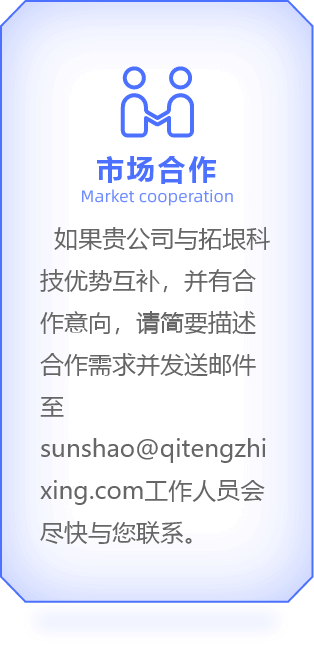
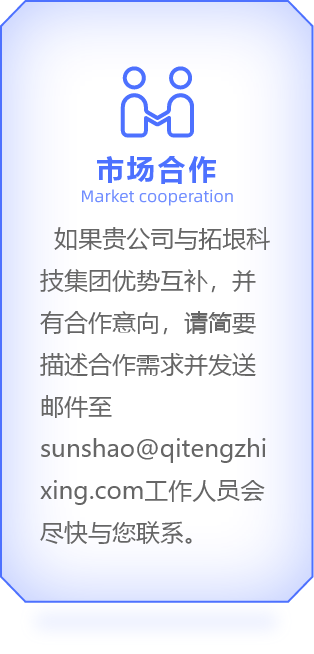
feat: add

Changed region(s): [[0.1146, 0.3976, 0.8312, 0.6422]]

diff --git a/src/views/About.vue b/src/views/About.vue
@@ -19,7 +19,7 @@
                     <div class="col-t"><img class="gs" src="@/assets/about-5-1.png" alt="" srcset="" /></div>
                     <div class="col-b">
                       公司团队依托云计算、大数据、人工智能、移动互联网等信息技术，以企业拥有的知识产权为切入点，构建企业全新生态，提供一站式解决方案。该系统内置了近百个知识产权风险检测指标和风控模型，综合分析企业的知识产权相关指标，通过线上平台直接生成企业知识产权综合评估报告。<br />
-                      拓垠科技作为第三方技术服务商，致力于帮助银行、征信机构、 保理机构
+                      拓垠科技集团作为第三方技术服务商，致力于帮助银行、征信机构、 保理机构
                       、科技公司、企服公司、行业协会、知识产权公司等客户整合数据、增强核心竞争力，助力知识产权数字化升级。我司风险检测系统已为银行、企服公司等300多家客户提供了安全、便捷、高效、全面的数字化风控服务。
                     </div>
                   </div>
@@ -29,78 +29,12 @@
           </div>
         </swiper-slide>
         <swiper-slide>
-          <div class="step2" v-if="swiperIndex === 1">
-            <div class="container">
-              <img class="qywh animate__animated animate__fadeInDown" src="@/assets/about-7-1.png" alt="" />
-              <div class="more-server animate__animated animate__fadeInDown animate__delay-1-1">
-                <div class="item">
-                  <img src="@/assets/about-i1.png" alt="" />
-                  <b>企业使命</b>
-                  <p>助成渝地区万千<br />企业高质量发展</p>
-                </div>
-                <div class="item">
-                  <img src="@/assets/about-i2.png" alt="" />
-                  <b>经营理念</b>
-                  <p>成就客户的心永不变<br />成就员工的心永不变</p>
-                </div>
-                <div class="item">
-                  <img src="@/assets/about-i3.png" alt="" />
-                  <b>企业价值观</b>
-                  <p>诚信为本、效率优先<br />专业至上、合作共赢</p>
-                </div>
-                <div class="item">
-                  <img src="@/assets/about-i4.png" alt="" />
-                  <b>企业愿景</b>
-                  <p>用科技技术服务<br />助企业降低成本</p>
-                </div>
-              </div>
-              <img class="yzs animate__animated animate__fadeInDown animate__delay-2-1" src="@/assets/about-8.png" alt="" />
-              <div class="one-server animate__animated animate__fadeInDown animate__delay-3">
-                <div class="servers">
-                  <div class="item">
-                    <div class="front">
-                      <img src="@/assets/about-9.png" alt="" />
-                    </div>
-                    <div class="backend">
-                      <img src="@/assets/about-20.png" alt="" />
-                    </div>
-                  </div>
-                  <div class="item">
-                    <div class="front">
-                      <img src="@/assets/about-10.png" alt="" />
-                    </div>
-                    <div class="backend">
-                      <img src="@/assets/about-21.png" alt="" />
-                    </div>
-                  </div>
-                  <div class="item">
-                    <div class="front">
-                      <img src="@/assets/about-11.png" alt="" />
-                    </div>
-                    <div class="backend">
-                      <img src="@/assets/about-22.png" alt="" />
-                    </div>
-                  </div>
-                  <div class="item">
-                    <div class="front">
-                      <img src="@/assets/about-12.png" alt="" />
-                    </div>
-                    <div class="backend">
-                      <img src="@/assets/about-23.png" alt="" />
-                    </div>
-                  </div>
-                </div>
-              </div>
-            </div>
-          </div>
-        </swiper-slide>
-        <swiper-slide>
-          <div class="step3" v-if="swiperIndex === 2">
+          <div class="step3" v-if="swiperIndex === 1">
             <div class="container">
               <div class="ry-box">
                 <img class="ry-title animate__animated animate__fadeInDown" src="@/assets/about-13.png" alt="" />
                 <div class="sw">
-                  <swiper :modules="[Mousewheel, Pagination, Navigation, Autoplay]" :navigation="true" :pagination="true" :autoplay="true">
+                  <swiper :modules="[Mousewheel, Pagination, Navigation, Autoplay]" :loop="true" :navigation="true" :pagination="true" :autoplay="true">
                     <swiper-slide class="ry-item">
                       <div class="ry-h">
                         <img src="@/assets/about-14.png" class="ry-img" />
@@ -134,35 +68,11 @@
     <template v-else>
       <div class="step2">
         <img class="img-title animate__animated animate__fadeInDown" src="@/assets/about-2.png" alt="" srcset="" />
-        <div class="container">
-          <div class="more-server animate__animated animate__fadeInDown animate__delay-1-1">
-            <div class="item">
-              <img src="@/assets/about-i1.png" alt="" />
-              <b>企业使命</b>
-              <p>助成渝地区万千企业高质量发展</p>
-            </div>
-            <div class="item">
-              <img src="@/assets/about-i2.png" alt="" />
-              <b>经营理念</b>
-              <p>成就客户的心永不变成就员工的心永不变</p>
-            </div>
-            <div class="item">
-              <img src="@/assets/about-i3.png" alt="" />
-              <b>企业价值观</b>
-              <p>诚信为本、效率优先专业至上、合作共赢</p>
-            </div>
-            <div class="item">
-              <img src="@/assets/about-i4.png" alt="" />
-              <b>企业愿景</b>
-              <p>用科技技术服务助企业降低成本</p>
-            </div>
-          </div>
-        </div>
       </div>
       <div class="step1">
         <div class="container">
-          <img class="jiesao-title animate__animated animate__fadeInDown animate__delay-2" src="@/assets/about-4.png" alt="" srcset="" />
-          <div class="jiesao animate__animated animate__fadeInDown animate__delay-2-4">
+          <img class="jiesao-title animate__animated animate__fadeInDown animate__delay-1" src="@/assets/about-4.png" alt="" srcset="" />
+          <div class="jiesao animate__animated animate__fadeInDown animate__delay-1-4">
             <div class="box">
               <div class="col-r">
                 <div class="col-b">
@@ -176,24 +86,8 @@
           </div>
         </div>
       </div>
-      <div class="yzs-s">
-        <img class="yzs animate__animated animate__fadeInDown animate__delay-2-1" src="@/assets/yzsfw.png" alt="" />
-        <div class="one-server animate__animated animate__fadeInDown animate__delay-3">
-          <div class="servers">
-            <div class="item">
-              <img src="@/assets/yzs1.png" alt="" />
-            </div>
-            <div class="item">
-              <img src="@/assets/yzs2.png" alt="" />
-            </div>
-            <div class="item">
-              <img src="@/assets/yzs3.png" alt="" />
-            </div>
-            <div class="item">
-              <img src="@/assets/yzs4.png" alt="" />
-            </div>
-          </div>
-        </div>
+      <div class="step3">
+        <img src="@/assets/rongyu.png" alt="" />
       </div>
       <user-footer style="position: initial !important" />
     </template>
@@ -201,7 +95,7 @@
 </template>
 <script setup>
 import UserFooter from "@/components/Footer.vue";
-import { ref, inject } from "vue";
+import { ref, inject, onMounted } from "vue";
 import { Mousewheel, Pagination, Navigation, Autoplay } from "swiper";
 import { Swiper, SwiperSlide } from "swiper/vue";
 import "swiper/css";
@@ -222,12 +116,18 @@ const load = (e) => {
 
 const onSlideChange = () => {
   swiperIndex.value = swiperDom.value?.activeIndex;
-  if (swiperIndex.value === 2) {
+  if (swiperIndex.value === 1) {
     headerActive.value = true;
   } else {
     headerActive.value = false;
   }
 };
+
+onMounted(() => {
+  if (width < 1200) {
+    headerActive.value = false;
+  }
+});
 </script>
 
 <style lang="scss" scoped>

diff --git a/src/views/Partner.vue b/src/views/Partner.vue
@@ -9,7 +9,17 @@
               <div class="server">
                 <img class="bg" src="@/assets/par-3.png" alt="" />
                 <img class="s-title animate__animated animate__fadeInDown animate__delay-1s" src="@/assets/par-4.png" alt="" srcset="" />
-                <img class="s-more" src="@/assets/par-5.png" alt="" srcset="" />
+                <div class="fuwu-box">
+                  <div class="box">
+                    <img class="yuan animate__animated animate__zoomIn animate__delay-1-1" src="@/assets/fuwu-yuan.png" alt="" />
+                    <img class="fuwu fuwu1 animate__animated animate__fadeInDown animate__delay-1-4" src="@/assets/fuwu1.png" alt="" srcset="" />
+                    <img class="fuwu fuwu2 animate__animated animate__fadeInDown animate__delay-1-5" src="@/assets/fuwu2.png" alt="" srcset="" />
+                    <img class="fuwu fuwu3 animate__animated animate__fadeInDown animate__delay-1-6" src="@/assets/fuwu3.png" alt="" srcset="" />
+                    <img class="fuwu fuwu4 animate__animated animate__fadeInDown animate__delay-1-1" src="@/assets/fuwu6.png" alt="" srcset="" />
+                    <img class="fuwu fuwu5 animate__animated animate__fadeInDown animate__delay-1-2" src="@/assets/fuwu5.png" alt="" srcset="" />
+                    <img class="fuwu fuwu6 animate__animated animate__fadeInDown animate__delay-1-3" src="@/assets/fuwu4.png" alt="" srcset="" />
+                  </div>
+                </div>
               </div>
             </div>
           </div>
@@ -108,6 +118,52 @@ const onSlideChange = () => {
     background: url("@/assets/par-1.png") no-repeat center top;
     background-size: auto 400px;
     height: 100%;
+    .fuwu-box {
+      width: 314px;
+      height: 314px;
+      position: absolute;
+      top: 35%;
+      left: 50%;
+      transform: translateX(-50%);
+      .box {
+        position: relative;
+        width: 100%;
+        height: 100%;
+        .yuan {
+          width: 100%;
+          height: 100%;
+        }
+        .fuwu {
+          position: absolute;
+          width: 311px;
+          height: 42px;
+          &.fuwu1 {
+            left: -286px;
+            top: 5px;
+          }
+          &.fuwu2 {
+            left: -334px;
+            top: 117px;
+          }
+          &.fuwu3 {
+            left: -292px;
+            top: 230px;
+          }
+          &.fuwu4 {
+            right: -283px;
+            top: 5px;
+          }
+          &.fuwu5 {
+            right: -334px;
+            top: 117px;
+          }
+          &.fuwu6 {
+            right: -283px;
+            top: 230px;
+          }
+        }
+      }
+    }
   }
   .container {
     max-width: 1250px;

diff --git a/src/components/Footer.vue b/src/components/Footer.vue
@@ -8,7 +8,7 @@
         <div class="top">
           <ul>
             <li v-for="(item, index) in links" :key="index">
-              <a>{{ item.text }}</a>
+              <a @click="$router.push(item.link)">{{ item.text }}</a>
             </li>
           </ul>
         </div>
@@ -30,23 +30,23 @@ const links = ref([
   },
   {
     text: "解决方案",
-    link: "/",
+    link: "/plan",
   },
   {
     text: "企业服务",
-    link: "/",
+    link: "/servers",
   },
   {
     text: "战略伙伴",
-    link: "/",
+    link: "/partner",
   },
   {
     text: "关于我们",
-    link: "/",
+    link: "/about",
   },
   {
     text: "联系我们",
-    link: "/",
+    link: "/call",
   },
 ]);
 </script>
@@ -65,8 +65,8 @@ const links = ref([
     align-items: center;
     height: 100%;
     .col-l {
-      width: 200px;
-      height: 60px;
+      width: 210px;
+      height: 70px;
       img {
         width: 100%;
       }

diff --git a/src/views/CallUs.vue b/src/views/CallUs.vue
@@ -41,10 +41,10 @@
       <div v-else class="more-m-card">
         <div class="col-t">
           <div>
-            <img src="@/assets/c1-1.png" alt="" />
+            <img src="@/assets/c1-2.png" alt="" />
           </div>
           <div>
-            <img src="@/assets/c1-2.png" alt="" />
+            <img src="@/assets/c1-1.png" alt="" />
           </div>
         </div>
         <div class="col-b">
@@ -54,7 +54,7 @@
     </div>
     <b-map v-if="showMap" @close="toggle" />
   </div>
-  <user-footer style="position: initial !important" />
+  <user-footer style="position: initial !important" v-if="width < 1200" />
 </template>
 <script setup>
 import BMap from "@/components/Map.vue";

diff --git a/src/css/media.scss b/src/css/media.scss
@@ -443,7 +443,8 @@
     .img-title {
       width: 130px;
       display: block;
-      margin: 20px auto 14px auto;
+      margin: 20px auto 0px auto;
+      padding-bottom: 15px;
     }
     .step1 {
       background: none !important;
@@ -500,6 +501,15 @@
             font-size: 12px !important;
           }
         }
+      }
+    }
+    .step3 {
+      width: 90% !important;
+      margin: 0 auto 30px auto;
+      height: initial !important;
+      img {
+        width: 100%;
+        display: block;
       }
     }
     .yzs {

diff --git a/src/App.vue b/src/App.vue
@@ -40,6 +40,9 @@ provide("headerActive", headerActive);
 .animate__delay-1-5 {
   animation-delay: 1.5s !important;
 }
+.animate__delay-1-6 {
+  animation-delay: 2s !important;
+}
 
 .animate__delay-2 {
   animation-delay: 2s !important;
@@ -58,6 +61,9 @@ provide("headerActive", headerActive);
 }
 .animate__delay-2-5 {
   animation-delay: 2.5s !important;
+}
+.animate__delay-2-6 {
+  animation-delay: 3s !important;
 }
 
 .animate__delay-3 {

diff --git a/src/components/Header.vue b/src/components/Header.vue
@@ -189,7 +189,7 @@ watch(active, (val) => {
       display: block;
       overflow: hidden;
       img {
-        width: 120px;
+        width: 162px;
       }
     }
     ul {
